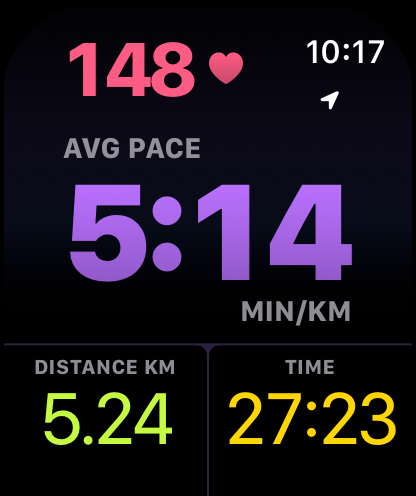
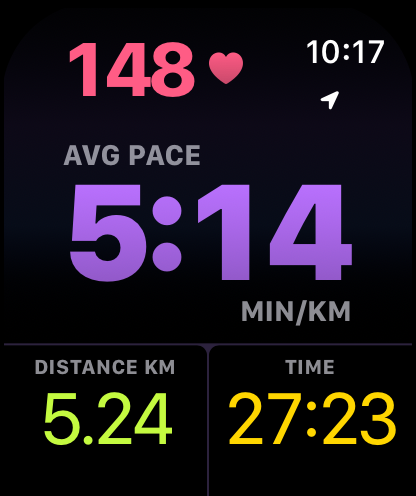
Center the heart rate in the heart rate zones screen
Recapture the website watch screens at 10:17 with the current app, where
the heart rate is centered under the zone band. The other four screens
are recaptured in the same run, so the PACE label sits at the same height
throughout the cycle.

Changed region(s): [[0.1562, 0.2722, 0.5, 0.3327]]

diff --git a/README.md b/README.md
@@ -48,7 +48,7 @@ References: [GitHub custom domains](https://docs.github.com/en/pages/configuring
 - Edit the HTML directly under `site/`. The shared header, footer, and metadata are repeated on the four pages; keep them consistent. Layout and color tokens are in `site/assets/style.css`.
 - Update feature descriptions against the released app, especially purchase gating, requirements, permissions, controls, and sync. Do not describe unreleased capabilities as available.
 - `watch-artwork.png` and `app-icon.png` come from Runner’s existing app assets. The watch hardware canvas is cropped with CSS using the same geometry as the app’s watch preview. It is overlaid with the real metric screenshot.
-- The watch screen uses five 416 × 496 captures of the real watch view with example data, one per main metric plus the heart rate zones: `watch-metrics.png` (PACE, cyan), `watch-average-pace.png` (AVG PACE, Midnight Blush), `watch-lap-pace.png` (LAP PACE, white), `watch-altitude-gain.png` (ALT GAIN, yellow) and `watch-heart-rate-zones.png` (PACE with the zone band, 138 bpm in zone 2). Regenerate them in the app repo with `.img/screenshots_workflow/store-assets.sh website` and copy them from `.img/screenshots_workflow/captures/website/` (`website-lap-pace.png` becomes `watch-lap-pace.png` and `website-heart-rate-zones.png` becomes `watch-heart-rate-zones.png`). The clock shows the simulator’s time, so start the run just after a minute boundary and check that all five show the same time.
+- The watch screen uses five 416 × 496 captures of the real watch view with example data, one per main metric plus the heart rate zones: `watch-metrics.png` (PACE, cyan), `watch-average-pace.png` (AVG PACE, Midnight Blush), `watch-lap-pace.png` (LAP PACE, white), `watch-altitude-gain.png` (ALT GAIN, yellow) and `watch-heart-rate-zones.png` (PACE with the zone band and the heart rate centered under it, 138 bpm in zone 2). Regenerate them in the app repo with `.img/screenshots_workflow/store-assets.sh website` and copy them from `.img/screenshots_workflow/captures/website/` (`website-lap-pace.png` becomes `watch-lap-pace.png` and `website-heart-rate-zones.png` becomes `watch-heart-rate-zones.png`). The clock shows the simulator’s time, so start the run just after a minute boundary and check that all five show the same time.
 - The homepage stacks the images and cycles through them with CSS in Double Tap order (`.watch-screen-alt`, 20 s cycle, 4 s each), with the heart rate zones last. With reduced motion only the pace image is shown. To show fewer metrics, remove `.watch-screen-alt` images from `site/index.html` and adjust the cycle in `style.css`. Check the screen alignment and the accessible example values on the homepage after replacement.
 - Heart rate zones were released in Runner 1.1. They are part of All Metrics and require watchOS 27 or later. They are described in the homepage section `#heart-rate-zones`, the ALL METRICS list, and the support answers `#heart-rate-zones` and “What does All Metrics add?”. The `.soon-label` style in `style.css` is kept for future announcements: put it before a section `h2` or inside an `h3`, and remove it when the feature ships.
 - `social-preview.png` is the 1200 × 630 sharing image. Replace it when the headline or identity changes. Open Graph URLs intentionally point at the production custom domain.
